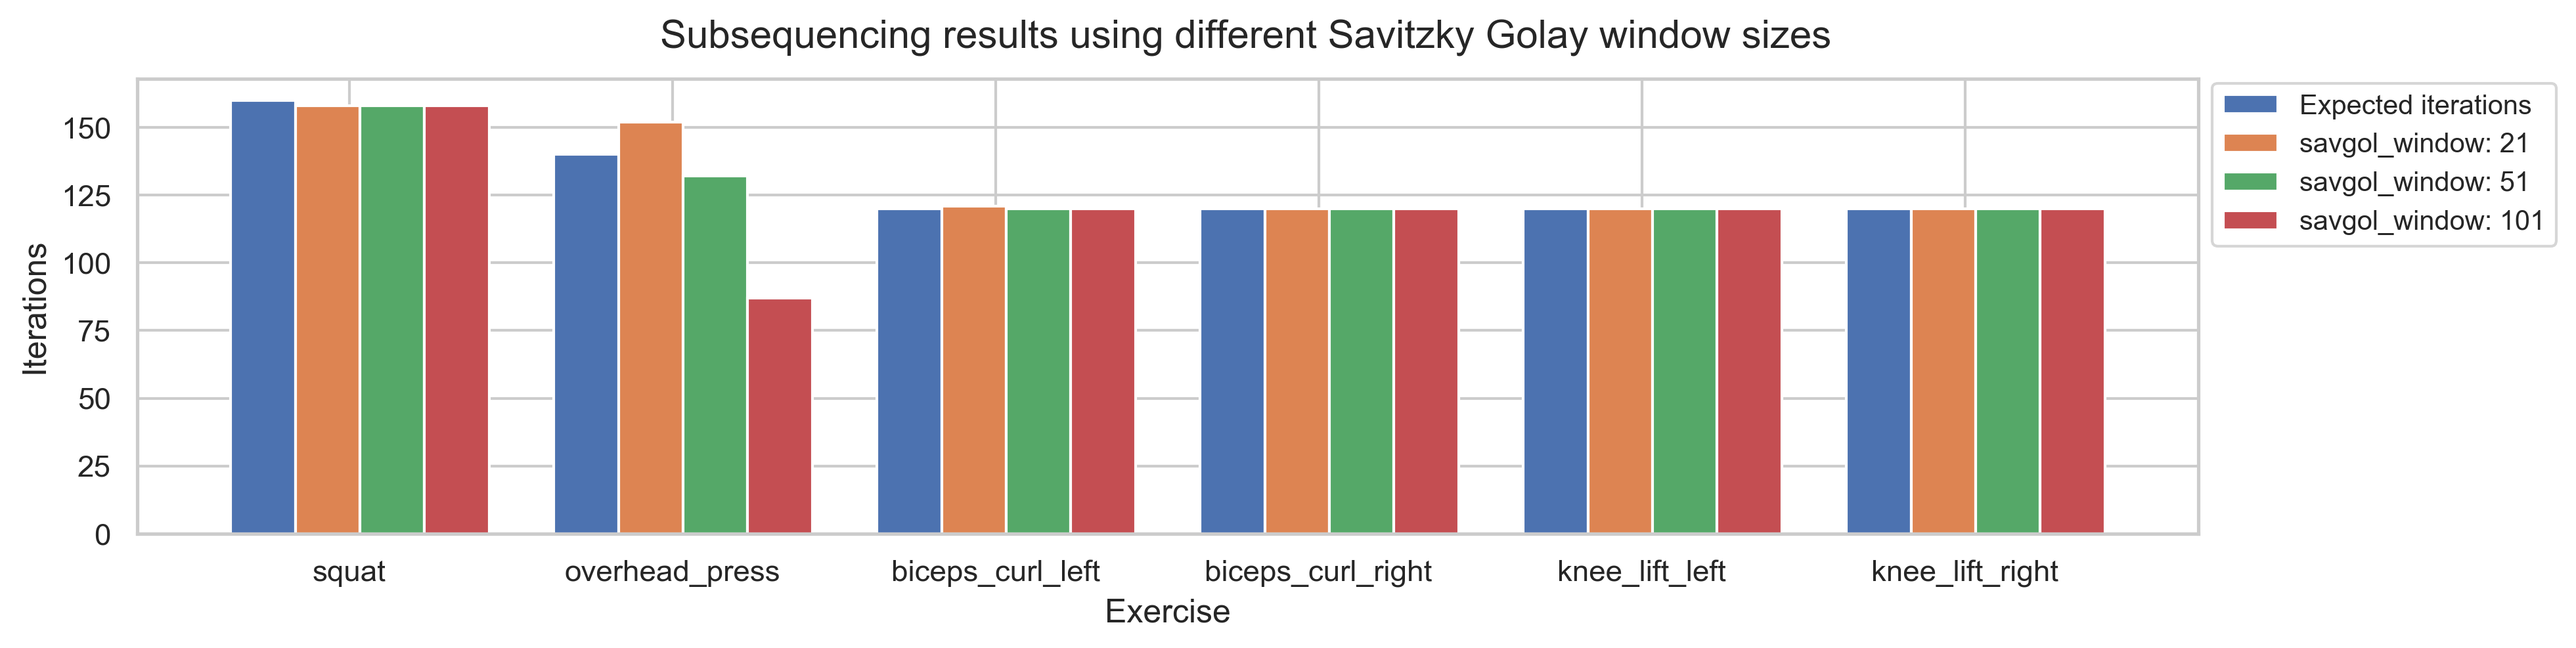
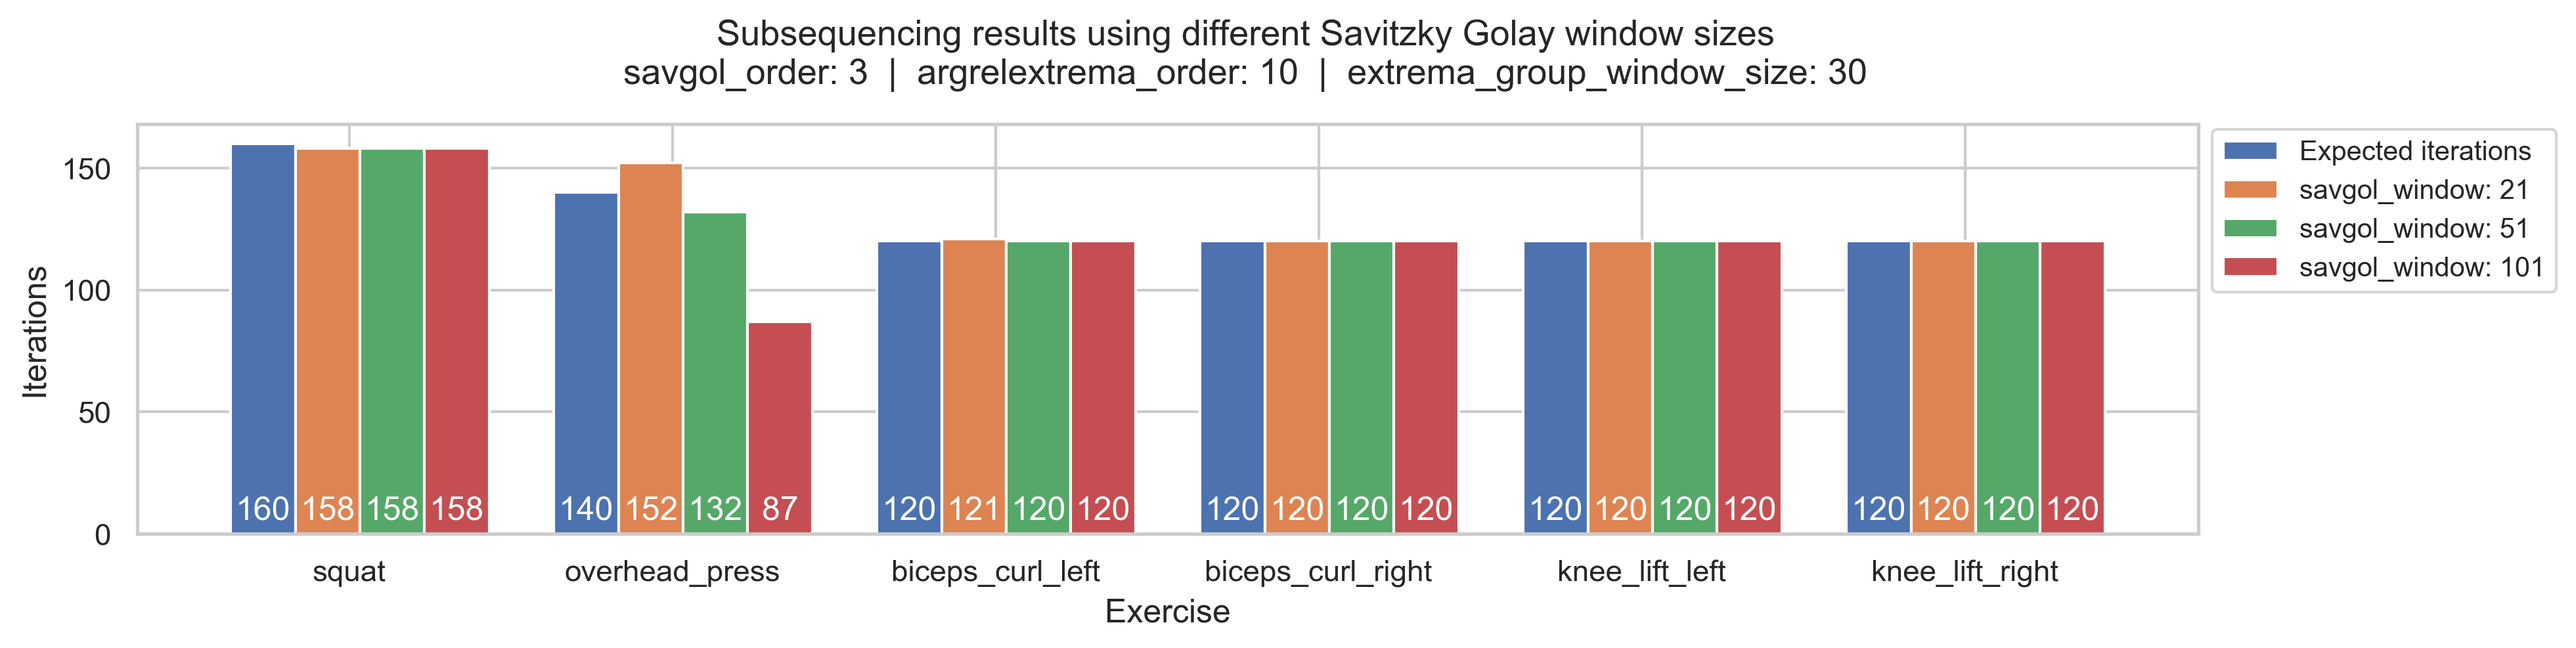
added angle type to legend

diff --git a/src/thesis_evaluate_subsequencing.py b/src/thesis_evaluate_subsequencing.py
@@ -82,39 +82,46 @@ def get_subseq_result(exercise: Exercise, exercise_name: str):
 # get_subseq_result(knee_lift_left, 'knee_lift_left')
 # get_subseq_result(knee_lift_right, 'knee_lift_right')
 
-results = []
-filenames = list(Path("data/evaluation/subsequencing/").rglob("*_3_10_dmean_30.json"))
-for filename in filenames:
-    with open(filename, 'r') as f:
-        result = json.load(f)
-        results.append(result)
 
-groups = ['squat', 'overhead_press', 'biceps_curl_left', 'biceps_curl_right', 'knee_lift_left', 'knee_lift_right']
-categorical = ['Expected iterations', 21, 51, 101]
-categorical_label = ['Expected iterations', f"savgol_window: {21}", f"savgol_window: {51}", f"savgol_window: {101}"]
-# colors = ['green', 'red', 'blue', 'orange']
-numerical = [[0, 0, 0, 0, 0, 0], [0, 0, 0, 0, 0, 0], [0, 0, 0, 0, 0, 0], [0, 0, 0, 0, 0, 0]]
-for result in results:
-    expected_iterations = result["n_sequences"] * 10
-    identified_iterations = result["n_iterations_found"]
-    numerical[categorical.index(result["params"]["savgol_window"])][groups.index(result["exercise"])] = identified_iterations
-    numerical[0][groups.index(result["exercise"])] = expected_iterations
+def plot_evauluation_savgol_window():
+    results = []
+    filenames = list(Path("data/evaluation/subsequencing/").rglob("*_3_10_dmean_30.json"))
+    for filename in filenames:
+        with open(filename, 'r') as f:
+            result = json.load(f)
+            results.append(result)
 
-number_groups = len(categorical)
-bin_width = 1.0 / (number_groups + 1)
-fig, ax = plt.subplots(figsize=(15, 3))
-for i in range(number_groups):
-    ax.bar(x=np.arange(6) + i*bin_width, height=numerical[i], width=bin_width, align='center')
-    ax.set_xticks(np.arange(len(groups)) + number_groups/(3*(number_groups+1)))  # number_groups/(2*(number_groups+1)): offset of xticklabelax.set_xticklabels(categorical)
-    ax.set_xticklabels(groups)
-    ax.legend(categorical_label, facecolor='w', loc='upper left', bbox_to_anchor=(1, 1.02), fontsize="small")
+    groups = ['squat', 'overhead_press', 'biceps_curl_left', 'biceps_curl_right', 'knee_lift_left', 'knee_lift_right']
+    categorical = ['Expected iterations', 21, 51, 101]
+    categorical_label = ['Expected iterations', f"savgol_window: {21}", f"savgol_window: {51}", f"savgol_window: {101}"]
+    # colors = ['green', 'red', 'blue', 'orange']
+    numerical = [[0, 0, 0, 0, 0, 0], [0, 0, 0, 0, 0, 0], [0, 0, 0, 0, 0, 0], [0, 0, 0, 0, 0, 0]]
+    for result in results:
+        expected_iterations = result["n_sequences"] * 10
+        identified_iterations = result["n_iterations_found"]
+        numerical[categorical.index(result["params"]["savgol_window"])][groups.index(result["exercise"])] = identified_iterations
+        numerical[0][groups.index(result["exercise"])] = expected_iterations
 
-box = ax.get_position()
-ax.set_position([box.x0, box.y0, box.width * 0.9, box.height])
-fig.suptitle(f"Subsequencing results using different Savitzky Golay window sizes")
-plt.xlabel("Exercise")
-plt.ylabel("Iterations")
-plt.savefig("subsequencing_savgol_windows.png",
-            bbox_inches="tight",
-            dpi=300)
-plt.show()
+    number_groups = len(categorical)
+    bin_width = 1.0 / (number_groups + 1)
+    fig, ax = plt.subplots(figsize=(15, 3))
+    for i in range(number_groups):
+        bars = ax.bar(x=np.arange(6) + i * bin_width, height=numerical[i], width=bin_width, align='center')
+        for bar in bars:
+            ax.text(bar.get_x() + bar.get_width()/2., 3, '%d' % int(bar.get_height()), ha='center', va="bottom", color='white')
+        ax.set_xticks(np.arange(len(groups)) + number_groups/(3*(number_groups+1)))  # number_groups/(2*(number_groups+1)): offset of xticklabelax.set_xticklabels(categorical)
+        ax.set_xticklabels(groups)
+        ax.legend(categorical_label, facecolor='w', loc='upper left', bbox_to_anchor=(1, 1.02), fontsize="small")
+
+    box = ax.get_position()
+    ax.set_position([box.x0, box.y0, box.width * 0.9, box.height * 0.9])
+    fig.suptitle(f"Subsequencing results using different Savitzky Golay window sizes\nsavgol_order: 3  |  argrelextrema_order: 10  |  extrema_group_window_size: 30", fontsize=13)
+    plt.xlabel("Exercise")
+    plt.ylabel("Iterations")
+    plt.savefig("subsequencing_savgol_windows.png",
+                bbox_inches="tight",
+                dpi=300)
+    plt.show()
+
+
+# plot_evauluation_savgol_window()

diff --git a/src/hma/movement_analysis/exercise_evaluator.py b/src/hma/movement_analysis/exercise_evaluator.py
@@ -192,7 +192,7 @@ class ExerciseEvaluator:
         # Gather information for plotting a summary graph
         angles_savgol_all_bps = np.zeros((len(self.prio_angles), len(seq)))
         angles_all_bps = np.zeros((len(self.prio_angles), len(seq)))
-        angles_legend = np.zeros((len(self.prio_angles)))
+        angles_legend = np.zeros((len(self.prio_angles), 2))
         minima_all_bps = [None]*len(self.prio_angles)
         maxima_all_bps = [None]*len(self.prio_angles)
 
@@ -208,7 +208,7 @@ class ExerciseEvaluator:
             angles_savgol = savgol_filter(angles, savgol_window, 3, mode="nearest")
             angles_savgol_all_bps[prio_idx] = angles_savgol
             angles_all_bps[prio_idx] = angles
-            angles_legend[prio_idx] = body_part_idx
+            angles_legend[prio_idx] = [body_part_idx, angle_type.value]
 
             # TODO: Find best value for order parameter (10 seems to work well)
             # Find Minima and Maxima of angles after applying a Savitzky-Golay Filter
@@ -323,17 +323,20 @@ class ExerciseEvaluator:
             plt.legend(loc='upper left', bbox_to_anchor=(1, 1.02), fontsize="small")
             plt.xlabel("Frame")
             plt.ylabel("Angle")
-            # plt.savefig("subsequencing_extrema_distance_filter.png",
-            #             bbox_inches="tight",
-            #             dpi=300)
+            plt.savefig("subsequencing_extrema.png",
+                        bbox_inches="tight",
+                        dpi=300)
             plt.show()
 
         return iterations
 
-    def get_label(self, idx):
+    def get_label(self, angle_idx_type: np.ndarray):
         for key, val in self.sequence.body_parts.items():
-            if val == idx:
-                return key
+            if val == angle_idx_type[0]:
+                if angle_idx_type[1] == 0:
+                    return key + " Flex/Ex"
+                if angle_idx_type[1] == 1:
+                    return key + " Abd/Add"
 
     def _confirm_iterations(self, confirmed_start_frames: np.ndarray, confirmed_turning_frames: np.ndarray) -> list:
         """Checks for correct order of start and turning frames.

diff --git a/src/analyse_exercise.py b/src/analyse_exercise.py
@@ -29,7 +29,7 @@ mocap_poseprocessor = PoseProcessor(PoseFormatEnum.MOCAP)
 # g_seq = mocap_poseprocessor.load('data/sequences/unique_iterations/complete-session.json', 'squat-dennis-multi-1')
 # g_seq = mocap_poseprocessor.load('data/sequences/testing/multi/overheadpress/levente/2019-09-25_15-09-03_records/complete-session.json', 'overheadpress')
 g_seq = mocap_poseprocessor.load(
-    'data/sequences/191024_tracking/multi/squat/user-6/191024__multi__squat__user-6__0.json')
+    'data/sequences/191024_tracking/multi/overhead_press/user-8/191024__multi__overhead_press__user-8__0.json')
 # g_seq.visualise()
 squat = exercise_loader.load('data/exercises/squat.json')
 knee_lift_left = exercise_loader.load('data/exercises/knee-lift-left.json')
@@ -56,7 +56,7 @@ for seq in seqs:
         merged_seq.merge(seq)
     if EE == None:
         # EE = ExerciseEvaluator(squat, merged_seq)
-        EE = ExerciseEvaluator(squat, merged_seq)
+        EE = ExerciseEvaluator(overheadpress, merged_seq)
     else:
         EE.set_sequence(merged_seq)
     part_iterations_biased = EE.find_iteration_keypoints()
